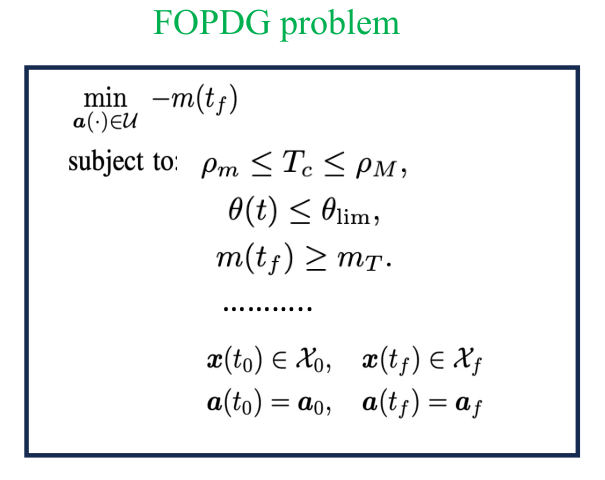
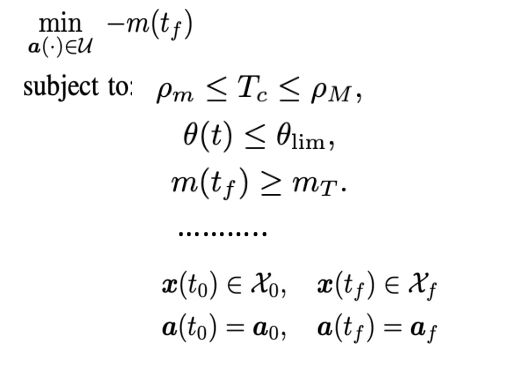
Tighten retargeting figures and equations

diff --git a/projects/isro-gnc.html b/projects/isro-gnc.html
@@ -146,11 +146,11 @@
                         time-to-go and finally retargeting.</figcaption>
                 </figure>
             </div>
-            <figure class="research-figure isro-flow-figure">
+            <figure class="research-figure isro-flow-figure isro-development-flow">
                 <img src="../assets/images/isro/retargeting_components/guidance_development_flow.png"
                     class="card-image" alt="Flow from offline trajectory rollouts to time-to-go and controllability-boundary learning, followed by onboard computation and retargeting" />
-                <figcaption class="figure-caption">Offline trajectory rollouts produce the compact models used for
-                    onboard time-to-go computation and retargeting.</figcaption>
+                <figcaption class="figure-caption caption-nowrap">Offline rollouts produce compact models for
+                    onboard time-to-go and retargeting.</figcaption>
             </figure>
 
             <h3>Why a feasibility and retargeting layer is needed</h3>
@@ -187,16 +187,16 @@
                 <li>The analytical base guidance policy approximates fuel-optimal powered-descent guidance.</li>
             </ul>
             <div class="figure-pair isro-component-pair">
-                <figure class="research-figure equation-figure">
+                <figure class="research-figure equation-figure isro-dynamics-figure">
                     <img src="../assets/images/isro/retargeting_components/pdg_dynamics.png" class="card-image"
                         alt="Lander translational dynamics and mass-depletion equations" />
-                    <figcaption class="figure-caption">Translational dynamics, thrust acceleration, and mass
-                        depletion.</figcaption>
+                    <figcaption class="figure-caption caption-nowrap">Translational dynamics, thrust acceleration,
+                        and mass depletion.</figcaption>
                 </figure>
-                <figure class="research-figure equation-figure">
+                <figure class="research-figure equation-figure isro-fopdg-figure">
                     <img src="../assets/images/isro/retargeting_components/pdg_optimization.png" class="card-image"
                         alt="Fuel-optimal powered-descent objective and constraints" />
-                    <figcaption class="figure-caption">Fuel-optimal powered-descent problem with thrust, attitude,
+                    <figcaption class="figure-caption caption-nowrap">Fuel-optimal descent with thrust, attitude,
                         mass, and boundary constraints.</figcaption>
                 </figure>
             </div>
@@ -213,16 +213,16 @@
                     dataset.</li>
                 <li>Formulate onboard time-to-go as a function of the measured fine-braking start state.</li>
             </ul>
-            <div class="figure-pair isro-equation-pair">
+            <div class="figure-pair isro-equation-pair isro-base-equations">
                 <figure class="research-figure equation-figure">
                     <img src="../assets/images/isro/polynomial_guidance_law.png" class="card-image"
                         alt="Cubic polynomial acceleration law used by the base guidance policy" />
                     <figcaption class="figure-caption">Analytical cubic acceleration command.</figcaption>
                 </figure>
-                <figure class="research-figure equation-figure">
+                <figure class="research-figure equation-figure isro-tgo-figure">
                     <img src="../assets/images/isro/time_to_go_policy.png" class="card-image"
                         alt="Learned time-to-go policy based on altitude, downrange, velocity, and the offline dataset" />
-                    <figcaption class="figure-caption">State-dependent onboard time-to-go policy.</figcaption>
+                    <figcaption class="figure-caption caption-nowrap">State-dependent onboard time-to-go policy.</figcaption>
                 </figure>
             </div>
 
@@ -235,7 +235,7 @@
                 <li><strong>Retargeting condition:</strong> if the current state lies outside the nominal controllable
                     set, shift the desired landing state.</li>
             </ul>
-            <figure class="research-figure isro-equation-wide equation-figure">
+            <figure class="research-figure isro-equation-wide isro-equation-compact equation-figure">
                 <img src="../assets/images/isro/reachability_retargeting.png" class="card-image"
                     alt="Mathematical definitions of the controllable set and retargeting condition" />
                 <figcaption class="figure-caption">The controllable-set definition and retargeting condition.</figcaption>
@@ -261,7 +261,8 @@
             <figure class="research-figure isro-equation-wide equation-figure">
                 <img src="../assets/images/isro/boundary_feature_map.png" class="card-image"
                     alt="Reduced descent state, quadratic feature vector, and controllability classifier" />
-                <figcaption class="figure-caption">Reduced state, quadratic feature map, and decision function.</figcaption>
+                <figcaption class="figure-caption caption-nowrap">Reduced state, quadratic feature map, and decision
+                    function.</figcaption>
             </figure>
 
             <p>The boundary coefficients are solved offline with two-level optimization. Level 1 learns a
@@ -273,11 +274,11 @@
                 <figcaption class="figure-caption">Offline two-level optimization: maximum margin followed by a
                     zero-loss correction.</figcaption>
             </figure>
-            <figure class="research-figure isro-equation-wide equation-figure">
+            <figure class="research-figure isro-equation-wide isro-levelset-figure equation-figure">
                 <img src="../assets/images/isro/retargeting_components/boundary_set_equations.png"
                     class="card-image" alt="Equations defining the controllability boundary and controllable set" />
-                <figcaption class="figure-caption">The fitted zero level-set defines the boundary; positive values
-                    define the controllable set.</figcaption>
+                <figcaption class="figure-caption caption-nowrap">Zero level-set: boundary at zero; controllable set
+                    for positive values.</figcaption>
             </figure>
 
             <h3>Real-time retargeting by boundary projection</h3>

diff --git a/assets/css/style.css b/assets/css/style.css
@@ -882,6 +882,74 @@ a.btn-link:hover {
     max-width: 820px;
 }
 
+.research-main.compact-sections .research-section > .research-figure.isro-development-flow {
+    max-width: 720px;
+    margin-top: 14px;
+    margin-bottom: 8px;
+}
+
+.isro-development-flow + h3 {
+    margin-top: 4px;
+}
+
+.isro-component-pair.figure-pair .research-figure.isro-dynamics-figure {
+    flex: 0 1 440px;
+    max-width: 440px;
+}
+
+.isro-component-pair.figure-pair .research-figure.isro-fopdg-figure {
+    flex: 0 1 600px;
+    max-width: 600px;
+}
+
+.isro-dynamics-figure .card-image {
+    max-width: 220px;
+    margin: 0 auto;
+}
+
+.isro-fopdg-figure .card-image {
+    max-width: 390px;
+    margin: 0 auto;
+}
+
+.isro-base-equations.figure-pair {
+    justify-content: center;
+}
+
+.isro-base-equations.figure-pair .research-figure {
+    flex: 0 1 450px;
+    max-width: 450px;
+}
+
+.isro-base-equations.figure-pair .research-figure.isro-tgo-figure {
+    flex-basis: 450px;
+    max-width: 450px;
+}
+
+.isro-tgo-figure .card-image {
+    max-width: 390px;
+    margin: 0 auto;
+}
+
+.research-figure.isro-equation-compact {
+    max-width: 610px;
+}
+
+.research-figure.isro-levelset-figure {
+    max-width: 520px;
+}
+
+.isro-component-pair .equation-figure .card-image,
+.isro-base-equations .equation-figure .card-image,
+.isro-equation-wide.equation-figure .card-image {
+    border: 0;
+}
+
+.caption-nowrap {
+    white-space: nowrap;
+    font-size: 0.8em;
+}
+
 .isro-story-grid,
 .isro-analysis-grid {
     margin-top: 28px;
@@ -983,6 +1051,10 @@ a.btn-link:hover {
     .isro-content-grid {
         grid-template-columns: 1fr;
         gap: 18px;
+    }
+
+    .caption-nowrap {
+        white-space: normal;
     }
 }
 
